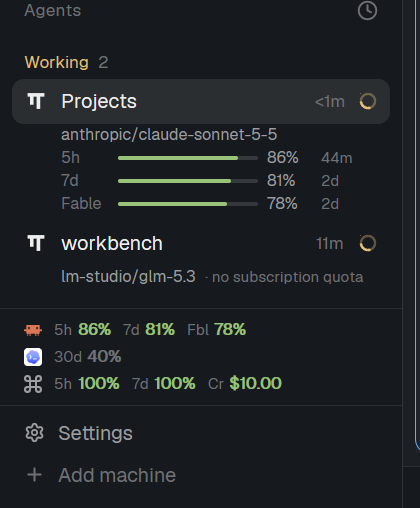
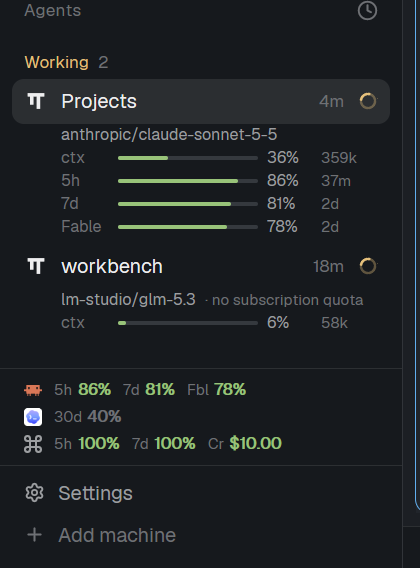
Show per-agent context-window usage (ctx gauge) for omp and Claude Code
- context.js: tokens of the last request from the transcript (omp contextSnapshot.promptTokens;
  Claude input + cache read + cache creation) and window sizes from `omp models --json`.
- Shown for subscription and API models alike, as % used with the token count.
- Claude Code gateway models have no trusted window: use the plugin's per-session percent,
  else just the token count.
- README, RECIPE and preview updated.

diff --git a/mods/agents-quota/quota.js b/mods/agents-quota/quota.js
@@ -14,10 +14,12 @@ import { parseReports } from "./reports.js";
 import { sessionDirFor, newestTranscript, activeModel, providerOfModel } from "./omp-session.js";
 import { claudeProjectDir, lastClaudeModel, claudeProvider } from "./claude-session.js";
 import { availableSubscriptions, layoutSubscriptions } from "./subscriptions.js";
+import { ompLastTokens, claudeLastTokens, parseModelCatalog, catalogWindow, contextOf, fmtTokens } from "./context.js";
 
 const STALE_S = 30 * 60;
 const LIVE_EVERY_MS = 60000; // omp caches usage for 5 min itself
 const MODEL_EVERY_MS = 30000;
+const WINDOWS_EVERY_MS = 600000; // the model catalog (context windows) changes rarely
 const TAIL_CHARS = 1_000_000; // Claude transcripts grow large; the last model is near the end
 
 const homePath = () => home().replace(/\\/g, "/").replace(/\/+$/, "");
@@ -60,22 +62,33 @@ async function fetchLive() {
   try { return parseReports(JSON.parse(r.stdout)); } catch { return null; }
 }
 
+// `omp models --json` -> Map("provider/id" -> context window). ~2 s, so asked rarely.
+async function fetchWindows() {
+  const r = await exec("omp", ["models", "--json"], { timeout: 30000 });
+  if (r.code !== 0) return null;
+  try { return parseModelCatalog(JSON.parse(r.stdout)); } catch { return null; }
+}
+
 async function loadCache() {
   for (const dir of dataDirs()) {
     let names;
     try { names = await fs.readdir(dir); } catch { continue; }
     const cache = new Map();
+    const contexts = new Map(); // Claude Code session id -> context % the plugin measured
     for (const n of names.sort()) {
       if (!n.endsWith(".json") || /\.(original|observation)\.json$/.test(n) || n.includes(".omp-store.") || n === "watch-herdr.json" || n === "icon-attention.json") continue;
       try {
         const text = await readTextFile(`${dir}/${n}`);
-        if (text) for (const c of cardsOf(JSON.parse(text))) if (!cache.has(c.provider)) cache.set(c.provider, c);
+        if (!text) continue;
+        const json = JSON.parse(text);
+        for (const c of cardsOf(json)) if (!cache.has(c.provider)) cache.set(c.provider, c);
+        for (const [id, v] of Object.entries(json.session_contexts ?? {})) if (num(v?.used_percent) !== null) contexts.set(id, v.used_percent);
       } catch { /* half-written file: next tick */ }
     }
     const mode = ((await readTextFile(`${dir}/quota-percent`)) ?? "remaining").trim();
-    return { cache, used: mode === "used" };
+    return { cache, contexts, used: mode === "used" };
   }
-  return { cache: new Map(), used: false };
+  return { cache: new Map(), contexts: new Map(), used: false };
 }
 
 // The newest transcript in `dir` by last write time, asked of the OS (null if it can't tell).
@@ -88,27 +101,30 @@ async function newestByMtime(dir) {
   return r.code === 0 && name ? name : null;
 }
 
-// The model an omp agent is using in `cwd` ("provider/model"): from the most recently written
-// transcript of that folder. Two omp agents in one folder share the answer. null when unknown.
-async function ompModelIn(cwd) {
+// What an omp agent is doing in `cwd`, from the most recently written transcript of that folder:
+// { model: "provider/model", tokens: last request's context size }. Two omp agents in one folder share
+// the answer. null when unknown.
+async function ompInfoIn(cwd) {
   const dir = sessionDirFor(home(), cwd);
   if (!dir) return null;
   const root = `${homePath()}/.omp/agent/sessions/${dir}`;
   try {
     const file = (await newestByMtime(root)) ?? newestTranscript(await fs.readdir(root));
     if (!file) return null;
-    return activeModel((await fs.readFile(`${root}/${file}`, "utf8")).slice(-TAIL_CHARS));
+    const text = (await fs.readFile(`${root}/${file}`, "utf8")).slice(-TAIL_CHARS);
+    return { model: activeModel(text), tokens: ompLastTokens(text), sessionId: null };
   } catch { return null; }
 }
 
-// The model a Claude Code agent is running in `cwd`: last model in the newest transcript of the folder.
-async function claudeModelIn(cwd) {
+// The same for a Claude Code agent; sessionId is the transcript's name (what the plugin keys by).
+async function claudeInfoIn(cwd) {
   const dir = claudeProjectDir(home(), cwd);
   if (!dir) return null;
   try {
     const file = await newestByMtime(dir);
     if (!file) return null;
-    return lastClaudeModel((await fs.readFile(`${dir}/${file}`, "utf8")).slice(-TAIL_CHARS));
+    const text = (await fs.readFile(`${dir}/${file}`, "utf8")).slice(-TAIL_CHARS);
+    return { model: lastClaudeModel(text), tokens: claudeLastTokens(text), sessionId: file.replace(/\.jsonl$/, "") };
   } catch { return null; }
 }
 
@@ -120,9 +136,9 @@ export const modelKind = (agent) => {
 };
 const modelKey = (kind, cwd) => `${kind}\u0000${cwd}`;
 
-// -> { live, cache, used, liveAt, models: Map<kind+cwd, {model, at}> }. `prev` is the last result, so
-// live readings and transcript lookups are reused between asks; `targets` are { kind, cwd } of the
-// omp / Claude Code agents on screen.
+// -> { live, cache, contexts, used, liveAt, windows, windowsAt, models: Map<kind+cwd, {model, tokens,
+// sessionId, at}> }. `prev` is the last result, so live readings, the model catalog and transcript
+// lookups are reused between asks; `targets` are { kind, cwd } of the omp / Claude Code agents on screen.
 export async function loadQuota(prev, targets = []) {
   let live = prev?.live ?? new Map();
   let liveAt = prev?.liveAt ?? 0;
@@ -130,38 +146,52 @@ export async function loadQuota(prev, targets = []) {
     liveAt = Date.now();
     try { live = (await fetchLive()) ?? live; } catch { /* omp missing or offline: keep the last reading */ }
   }
+  let windows = prev?.windows ?? new Map();
+  let windowsAt = prev?.windowsAt ?? 0;
+  if (targets.length && Date.now() - windowsAt >= WINDOWS_EVERY_MS) {
+    windowsAt = Date.now();
+    try { windows = (await fetchWindows()) ?? windows; } catch { /* keep the last catalog */ }
+  }
   const models = new Map();
   for (const { kind, cwd } of targets) {
     const key = modelKey(kind, cwd);
     if (models.has(key)) continue;
     const old = prev?.models?.get(key);
     if (old && Date.now() - old.at < MODEL_EVERY_MS) { models.set(key, old); continue; }
-    models.set(key, { model: kind === "omp" ? await ompModelIn(cwd) : await claudeModelIn(cwd), at: Date.now() });
+    const info = kind === "omp" ? await ompInfoIn(cwd) : await claudeInfoIn(cwd);
+    models.set(key, { model: info?.model ?? null, tokens: info?.tokens ?? null, sessionId: info?.sessionId ?? null, at: Date.now() });
   }
-  return { live, liveAt, models, ...(await loadCache()) };
+  return { live, liveAt, windows, windowsAt, models, ...(await loadCache()) };
 }
 
 // The program key the app reports -> the key the quota sources use.
 const ALIAS = { "claude-code": "claude", "command-code": "commandcode", antigravity: "agy" };
 
-// What to show under an agent: { model, card, note } or null. `cwd` is the agent's live folder.
-// card is null when the active model isn't covered by a subscription we can read.
+// What to show under an agent: { model, card, note, context } or null. `cwd` is the agent's live folder.
+// card is null when the active model isn't covered by a subscription we can read. context is
+// { pct | null, tokens } for how full the context window is (any model, subscription or not).
 export function agentQuota(q, agent, cwd) {
   const kind = modelKind(agent);
   if (kind) {
-    const model = q.models.get(modelKey(kind, cwd))?.model ?? null;
+    const entry = q.models.get(modelKey(kind, cwd));
+    const model = entry?.model ?? null;
     const provider = kind === "claude" ? claudeProvider(model) : providerOfModel(model);
     let card = null;
     if (provider === "anthropic") card = q.live.get("anthropic") ?? q.cache.get("claude") ?? null;
     else if (provider === "commandcode") card = q.live.get("commandcode") ?? null;
     else if (provider === "openai-codex") card = q.cache.get("codex") ?? null;
-    if (!model && !card) return null;
-    return { model, card, note: card ? null : "no subscription quota" };
+    // Window: omp names models "provider/id", the catalog's keys. Claude Code's `claude-*` ids are
+    // Anthropic's; any other model there (a gateway) has no catalog entry we can trust, so only the
+    // percent Claude Code itself measured (the plugin's per-session cache) is used.
+    const window = kind === "omp" ? catalogWindow(q.windows, model) : catalogWindow(q.windows, provider ? `anthropic/${model}` : null);
+    const context = contextOf({ tokens: entry?.tokens ?? null, window, cachedPct: q.contexts.get(entry?.sessionId) ?? null });
+    if (!model && !card && !context) return null;
+    return { model, card, note: card ? null : "no subscription quota", context };
   }
   const raw = agent.program?.key ?? agent.app;
   const key = ALIAS[raw] ?? raw;
   const card = q.live.get(key) ?? q.cache.get(key) ?? null;
-  return card ? { model: null, card, note: null } : null;
+  return card ? { model: null, card, note: null, context: null } : null;
 }
 
 function until(unix) {
@@ -207,13 +237,24 @@ function modelLine(t, model, note) {
     .when(Boolean(note), (e) => e.child(div().flex_none().text_size(10).text_color(t.dim).child(`· ${note}`)));
 }
 
-// The block under an agent row, indented to line up under its name. Context % is not shown: the
-// cache keeps it per session and an agent row can't be matched to one.
+// How full the context window is: "ctx  ▬▬▬▬  34%  336k". Always % USED (as agents' own footers show it),
+// whatever the quota rows show. Red past 85%, yellow past 60%. Without a percent, just the token count.
+function contextLine(t, ctx) {
+  if (ctx.pct === null) {
+    return h_flex().h(15).flex_none().items_center().gap(6)
+      .child(div().w(32).text_size(10.5).text_color(t.dim).child("ctx"))
+      .child(div().text_size(10.5).text_color(t.muted).child(`${fmtTokens(ctx.tokens)} tokens`));
+  }
+  return line(t, "ctx", ctx.pct, 100 - ctx.pct, ctx.tokens ? fmtTokens(ctx.tokens) : "", false);
+}
+
+// The block under an agent row, indented to line up under its name: model, context, then quota.
 export function quotaBlock(t, info, used) {
   if (!info) return null;
   const now = Date.now() / 1000;
   const rows = [];
   if (info.model !== null || info.note) rows.push(modelLine(t, info.model, info.note));
+  if (info.context) rows.push(contextLine(t, info.context));
   const card = info.card;
   if (card) {
     const stale = card.fetched !== null && now - card.fetched > STALE_S;

diff --git a/mods/agents-quota/context.js b/mods/agents-quota/context.js
@@ -1,0 +1,70 @@
+// Context-window use of an agent, from its session transcript. Pure functions, no host calls: testable
+// with plain `bun`.
+//
+// tokens = what the last request put in the context window; window = the model's size. Claude Code's own
+// status line uses the same sum: input + cache read + cache creation tokens of the last assistant message.
+
+const num = (v) => (typeof v === "number" && Number.isFinite(v) ? v : 0);
+
+// Walks the transcript from the end and returns the first assistant line `pick` can read tokens from.
+function lastTokens(text, marker, pick) {
+  const lines = text.split("\n");
+  for (let i = lines.length - 1; i >= 0; i--) {
+    if (!lines[i].includes(marker)) continue;
+    let entry;
+    try { entry = JSON.parse(lines[i]); } catch { continue; }
+    const tokens = pick(entry);
+    if (tokens > 0) return tokens;
+  }
+  return null;
+}
+
+// omp: the assistant message carries `contextSnapshot.promptTokens` (what it sent), else usage totals.
+export function ompLastTokens(text) {
+  return lastTokens(text, '"role":"assistant"', (e) => {
+    const m = e.message;
+    if (m?.role !== "assistant") return 0;
+    const snapshot = num(m.contextSnapshot?.promptTokens);
+    if (snapshot > 0) return snapshot;
+    const u = m.usage ?? {};
+    return num(u.input) + num(u.cacheRead) + num(u.cacheWrite);
+  });
+}
+
+// Claude Code: `{ "type": "assistant", "message": { "model", "usage": {...} } }`. `<synthetic>` messages
+// (interrupts and the like) are Claude Code's own, with no real usage.
+export function claudeLastTokens(text) {
+  return lastTokens(text, '"type":"assistant"', (e) => {
+    const m = e.message;
+    if (e.type !== "assistant" || !m?.usage || m.model === "<synthetic>") return 0;
+    return num(m.usage.input_tokens) + num(m.usage.cache_read_input_tokens) + num(m.usage.cache_creation_input_tokens);
+  });
+}
+
+// `omp models --json` -> Map("provider/id" -> contextWindow tokens).
+export function parseModelCatalog(json) {
+  const windows = new Map();
+  for (const m of Array.isArray(json?.models) ? json.models : []) {
+    if (typeof m?.provider === "string" && typeof m?.id === "string" && num(m.contextWindow) > 0) windows.set(`${m.provider}/${m.id}`, m.contextWindow);
+  }
+  return windows;
+}
+
+// The window of "provider/id", also trying Claude's dated ids (claude-haiku-4-5-20251001 -> claude-haiku-4-5).
+export function catalogWindow(windows, model) {
+  if (!model) return null;
+  return windows.get(model) ?? windows.get(model.replace(/-\d{8}$/, "")) ?? null;
+}
+
+// -> { pct (0-100 | null), tokens } or null when there is nothing to say. `cachedPct` is a percent
+// someone else measured (the plugin's per-session Claude cache), used only when the window is unknown.
+export function contextOf({ tokens, window, cachedPct }) {
+  if (window && tokens) return { pct: Math.min(100, (tokens / window) * 100), tokens };
+  if (cachedPct !== null && cachedPct !== undefined) return { pct: cachedPct, tokens: tokens ?? null };
+  return tokens ? { pct: null, tokens } : null;
+}
+
+export function fmtTokens(n) {
+  if (n >= 1_000_000) return `${(n / 1_000_000).toFixed(1)}M`;
+  return n >= 1000 ? `${Math.round(n / 1000)}k` : String(n);
+}

diff --git a/RECIPE.md b/RECIPE.md
@@ -16,12 +16,16 @@ The shipped Agents panel (header "Agents", sort button, groups such as Working /
 1. **Model line**, always when a model is known: the model id (`anthropic/claude-sonnet-5-5`,
    `lm-studio/glm-5.3`) in 10.5px `muted`, truncated; for a model with no subscription, a second piece
    `· no subscription quota` in 10px `dim`.
-2. **One gauge line per limit**, only for subscription models: a 32px label (`5h`, `7d`, `Fable`, `30d`,
+2. **Context line**, for any model with a known size of last request (subscription or not): label `ctx`,
+   a gauge filled to the context window **used** (always used, not remaining, like the agents' own
+   footers), percent, and a tail with the token count (`353k`, `1.2M`). Red past 85% used, yellow past
+   60%. When only a token count is known (no window), the line reads `<n> tokens` in `muted`.
+3. **One gauge line per limit**, only for subscription models: a 32px label (`5h`, `7d`, `Fable`, `30d`,
    `Cr`) in 10.5px `dim`; a 3px-tall rounded track (`raised`) filled to the shown percent; a 30px percent
    in 10.5px `muted`; a 38px tail in 10px `dim` (time to reset like `1h08`, `2d`; for `Cr` the dollars
    left like `$10.00`).
-3. Nothing at all when the model isn't known yet or the agent has no folder under the home folder.
-4. **Pinned footer**, below the agent list and above the sidebar footer, hidden in the narrow rail: a 1px
+4. Nothing at all when the model isn't known yet or the agent has no folder under the home folder.
+5. **Pinned footer**, below the agent list and above the sidebar footer, hidden in the narrow rail: a 1px
    `border` top line, 16px side padding, 6px vertical, 2px between lines. One 16px line per subscription
    that has data: a 12px provider icon (single-colour glyphs tinted `muted`), then `label value` pills 8px
    apart, label 10px `dim`, value 10.5px semibold coloured like the gauges (`dim` when the reading is older
@@ -49,11 +53,19 @@ Fill colour follows what is left, whichever number is shown: `ansi1` (red) under
 ## Built from
 
 A clone of the shipped `agents` mod (`herdr-app do mod.clone '{"name":"agents","as":"agents-quota"}'`,
-version 0.1.16) with `mod.json` `{"place":"none","title":"Agents"}`, plus five modules:
+version 0.1.16) with `mod.json` `{"place":"none","title":"Agents"}`, plus six modules:
 
-- `quota.js`: `loadQuota(prev, targets)` returns `{ live, cache, used, liveAt, models }`;
-  `agentQuota(q, agent, cwd)` returns `{ model, card, note }` or null; `quotaBlock(t, info, used)` draws it;
-  `modelKind(agent)` is `"omp"`, `"claude"` or null.
+- `quota.js`: `loadQuota(prev, targets)` returns `{ live, cache, contexts, used, liveAt, windows, windowsAt,
+  models }` (`models` entries: `{ model, tokens, sessionId, at }`); `agentQuota(q, agent, cwd)` returns
+  `{ model, card, note, context }` or null; `quotaBlock(t, info, used)` draws it; `modelKind(agent)` is
+  `"omp"`, `"claude"` or null. The model catalog comes from `omp models --json` every 10 min.
+- `context.js`: `ompLastTokens(text)` (assistant `contextSnapshot.promptTokens`, else usage totals),
+  `claudeLastTokens(text)` (last assistant `usage`: input + cache read + cache creation tokens),
+  `parseModelCatalog(json)` (`provider/id` -> `contextWindow`), `catalogWindow(map, model)` (also tries
+  dated Claude ids), `contextOf({ tokens, window, cachedPct })` -> `{ pct, tokens }`, `fmtTokens(n)`.
+  Window: omp models from the catalog by `provider/id`; Claude Code `claude-*` models from the catalog's
+  `anthropic/<id>`; any other Claude Code model has no trusted window, so only the percent the plugin
+  measured per session (`session_contexts` in `claude-statusline.json`, keyed by transcript name) is used.
 - `reports.js`: `parseReports(json)` turns `omp usage --json` into one card per provider. The fill uses
   each limit's `usedFraction` (Anthropic reports percent, Command Code an "unknown" unit). Row labels:
   anthropic `5h`, `7d`, `7d:fable` -> `Fable`; commandcode `5h`, `7d`, `credits` -> `Cr` (+ dollars left).
@@ -90,7 +102,8 @@ elsewhere; `fs/promises` `readdir`/`readFile` of transcripts and of
   alone were wrong (an older session can be the active one).
 - omp assistant messages carry the real provider and model even when no `model_change` was ever written
   (a model from config), so don't rely on `model_change` alone.
-- Do not show context %: Claude and Codex keep it per session and a row can't be matched to a session.
+- Context is per agent, taken from the last request in the agent's transcript, so two agents in one folder
+  share it. Check it against the agent's own footer: an omp pane footer reads like `35.3%/1M`.
 - The Claude and Codex numbers don't depend on which agent row it is; they are per provider.
 - `readTextFile` caps at 1 MiB; transcripts are read with `fs.readFile` and only the last 1,000,000
   characters are scanned.
@@ -108,6 +121,8 @@ elsewhere; `fs/promises` `readdir`/`readFile` of transcripts and of
 - An omp agent on `lm-studio/glm-5.3` shows the same note; on `commandcode/...` it shows `5h`, `7d` and
   `Cr` with dollars left.
 - With two transcripts in one folder, the model shown is the one in the most recently written file.
+- An omp agent's `ctx` percent matches its own pane footer within about 0.5% (for example `35%` vs
+  `35.3%/1M`), and the token count is the last request's `contextSnapshot.promptTokens`.
 - Collapsing the sidebar to the rail hides all quota lines; expanding brings them back.
 - With no agent running, the pinned footer still shows the Claude Code and Codex lines from live /
   cached data, and hovering a line shows the reset times.

diff --git a/README.md b/README.md
@@ -15,6 +15,10 @@ subscriptions footer (bottom: Claude Code, Codex, Command Code). The empty space
 - **Live numbers** come from [`omp usage --json`](https://github.com/can1357/oh-my-pi): Anthropic 5h, 7d
   and the separate 7d **Fable** limit, and Command Code 5h, 7d and credit balance.
 - Gauges turn red under 15% left and yellow under 40%; a window whose reset has passed shows `n/a`.
+- **Context window per agent:** a `ctx` gauge under each omp and Claude Code agent shows how full its
+  context is (**% used**, plus the token count), for subscription and API models alike. Sizes come from
+  `omp models --json`; for a Claude Code gateway model (not `claude-*`) the percent Claude Code itself
+  measured is used if the plugin recorded it, otherwise only the token count is shown.
 - **Pinned subscriptions footer:** a tight strip at the bottom of the panel always shows your Claude Code
   (`5h`, `7d`, `Fbl`), Codex (`30d`) and Command Code (`5h`, `7d`, credits `Cr $…`) limits, whether or not
   an agent is running. Hover a line for reset times. Subscriptions with a running agent come first. With
@@ -80,7 +84,7 @@ Mods are trusted code. This one:
 - Quota is per provider, not per session: two Claude Code agents show the same numbers.
 - The active model comes from the most recently written transcript in the agent's folder, so two omp (or
   two Claude Code) agents in one folder share an answer. Model changes show up within ~40 s.
-- Context % is not shown (it is per session and can't be matched to a row).
+- Context comes from the last request in the agent's transcript, so two agents in one folder share it.
 - It is a modified copy of Herdr's `agents` mod; Herdr never updates it. After an app update, re-clone
   `agents` and re-apply the patch (see `RECIPE.md`, *Built from*).
 
